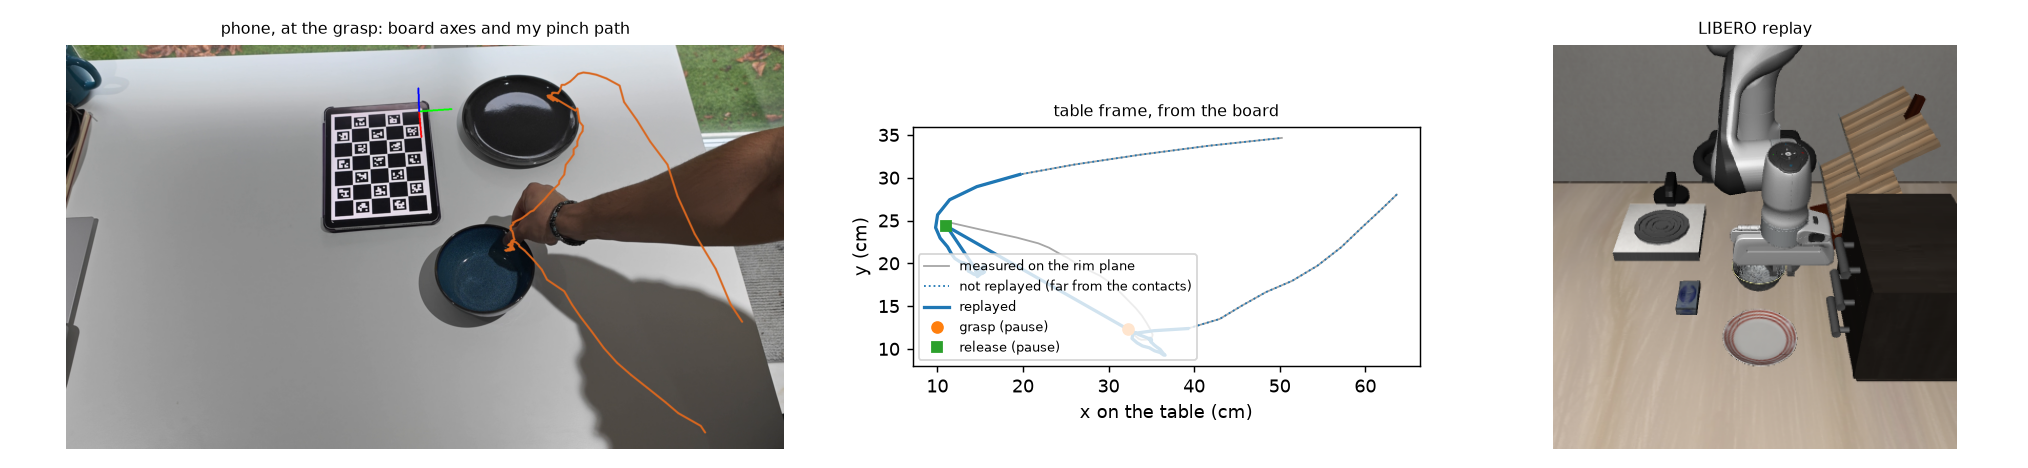
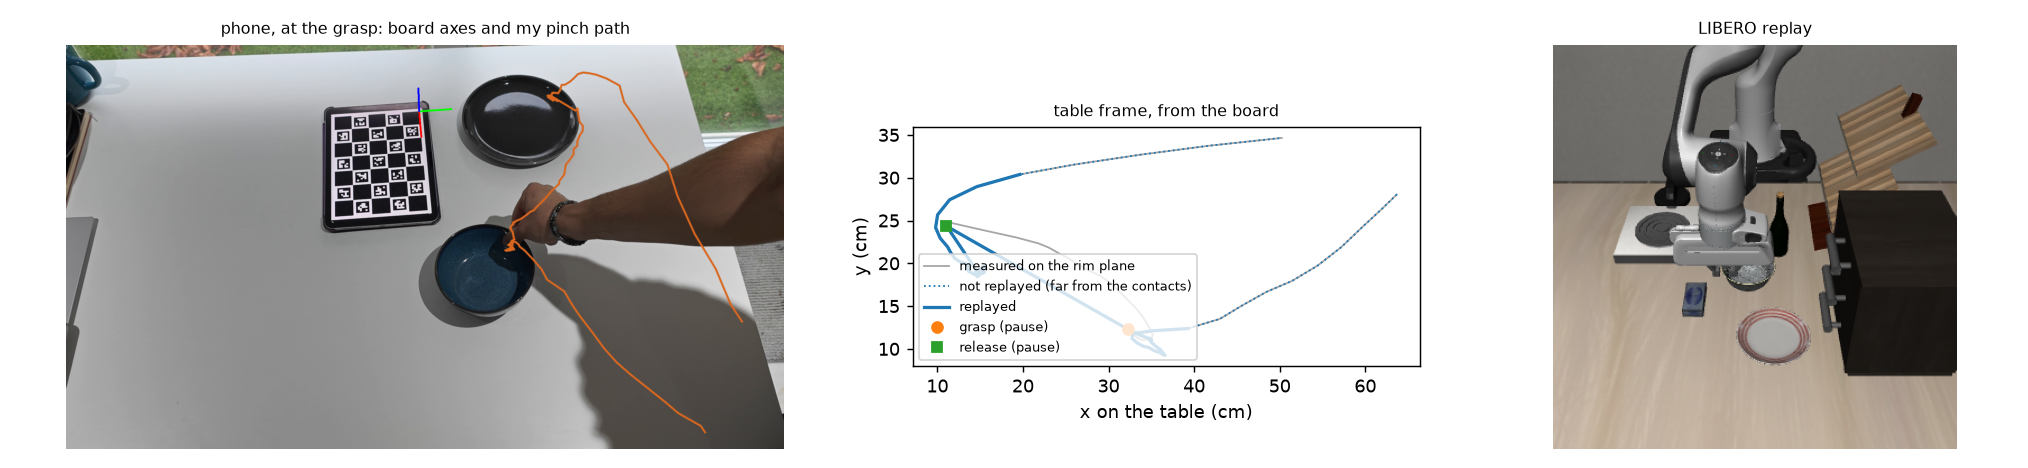
Full-resolution GIFs at real speed, holding the last frame

Changed region(s): [[0.7766, 0.0897, 0.963, 0.8376]]

diff --git a/scripts/make_gifs.py b/scripts/make_gifs.py
@@ -1,0 +1,55 @@
+"""README GIFs from LeRobot evaluation videos.
+
+Usage: python scripts/make_gifs.py
+Reads ~/runs/<run>/eval_last/videos/... and writes docs/media/*.gif.
+
+Frames are kept at real speed (every second or third 20 Hz control step, 50 ms
+per step), at full resolution unless a long clip would make the GIF too heavy
+for a README. The evaluation stops recording the moment LIBERO
+reports success, so the last frame is held for a while instead of the GIF
+cutting off mid-motion.
+"""
+
+from pathlib import Path
+
+import av
+import numpy as np
+from PIL import Image
+
+ROOT = Path(__file__).resolve().parents[1]
+RUNS = Path.home() / "runs"
+
+CLIPS = [  # (run, evaluation episode, output name, every, size)
+    ("phone13", 2, "policy_phone_success", 2, 360),
+    ("phone13", 0, "policy_phone_failure", 3, 300),
+    ("teleop13", 0, "policy_teleop_success", 2, 360),
+]
+STEP_MS = 50  # LIBERO runs at 20 Hz
+
+
+def save_gif(frames, path: Path, every: int = 2, size: int | None = None, hold_ms: int = 1500) -> None:
+    """Adaptive palette per frame, no lossy frame merging, last frame held."""
+    imgs = []
+    for f in frames[::every]:
+        im = Image.fromarray(np.asarray(f))
+        if size and im.width != size:
+            im = im.resize((size, size), Image.Resampling.LANCZOS)
+        imgs.append(im.convert("P", palette=Image.Palette.ADAPTIVE, colors=256))
+    durations = [STEP_MS * every] * (len(imgs) - 1) + [hold_ms]
+    imgs[0].save(path, save_all=True, append_images=imgs[1:], duration=durations,
+                 loop=0, optimize=False, disposal=1)
+
+
+def main() -> None:
+    out = ROOT / "docs" / "media"
+    out.mkdir(parents=True, exist_ok=True)
+    for run, ep, name, every, size in CLIPS:
+        src = RUNS / run / "eval_last" / "videos" / "libero_goal_8" / f"eval_episode_{ep}.mp4"
+        with av.open(str(src)) as c:
+            frames = [f.to_ndarray(format="rgb24") for f in c.decode(video=0)]
+        save_gif(frames, out / f"{name}.gif", every, size)
+        print(f"{name}: {len(frames)} steps, {(out / f'{name}.gif').stat().st_size // 1024} KB")
+
+
+if __name__ == "__main__":
+    main()

diff --git a/scripts/render_replay.py b/scripts/render_replay.py
@@ -12,6 +12,7 @@ from pathlib import Path
 
 import imageio.v2 as imageio
 import numpy as np
+from make_gifs import save_gif
 
 from p2p import retarget as rt
 from p2p import sim
@@ -36,7 +37,7 @@ def main() -> None:
     c = rt.clip_trajectory(d["t"], d["hand_px"], d["T_cam_table"], intr.K, intr.dist, cfg, HZ)
     demo = trim(Demo(c["pinch"], c["grip"], c["grasp"], c["release"]))
 
-    env, init_states = sim.make_env(resolution=384)
+    env, init_states = sim.make_env(resolution=360)
     env.reset()
     env.set_init_state(init_states[args.state])
     sim.settle(env)
@@ -57,8 +58,7 @@ def main() -> None:
     imageio.imwrite(out_png, frames[min(closed + 8, len(frames) - 1)])
     gif = ROOT / "docs" / "media" / f"replay_{args.demo}.gif"
     gif.parent.mkdir(parents=True, exist_ok=True)
-    small = [f[::2, ::2] for f in frames[::3]]  # 192 px, every third step: keeps the GIF under 2 MB
-    imageio.mimsave(gif, small, duration=0.15, loop=0)
+    save_gif(frames, gif, every=3)
     print("wrote", out_png, gif)
 
 

diff --git a/README.md b/README.md
@@ -226,8 +226,9 @@ bash experiments/train.sh phone
 bash experiments/eval.sh ~/runs/teleop13
 bash experiments/eval.sh ~/runs/phone13
 python scripts/ablate.py data/raw/s01
-python scripts/render_replay.py data/raw/s01 demo_020
+python scripts/render_replay.py data/raw/s01 demo_020 --state 1
 python scripts/figures.py data/raw/s01 demo_020 --sim outputs/figures/demo_020_sim.png
+python scripts/make_gifs.py
 ```
 
 `python scripts/sim_smoke.py 20` checks the simulator side alone with a
@@ -245,7 +246,7 @@ src/p2p/      board.py camera.py hand.py video.py   perception
               sim_map.py                              table frame -> LIBERO scene
               sim.py                                  servo, playback, LeRobot frames
 scripts/      calibrate, track, retarget, generate, ablate, render_replay,
-              figures, sim_smoke, make_board, libero_episodes
+              figures, make_gifs, sim_smoke, make_board, libero_episodes
 experiments/  train.sh, eval.sh
 docs/         recording.md, board/, figures/, media/
 ```
